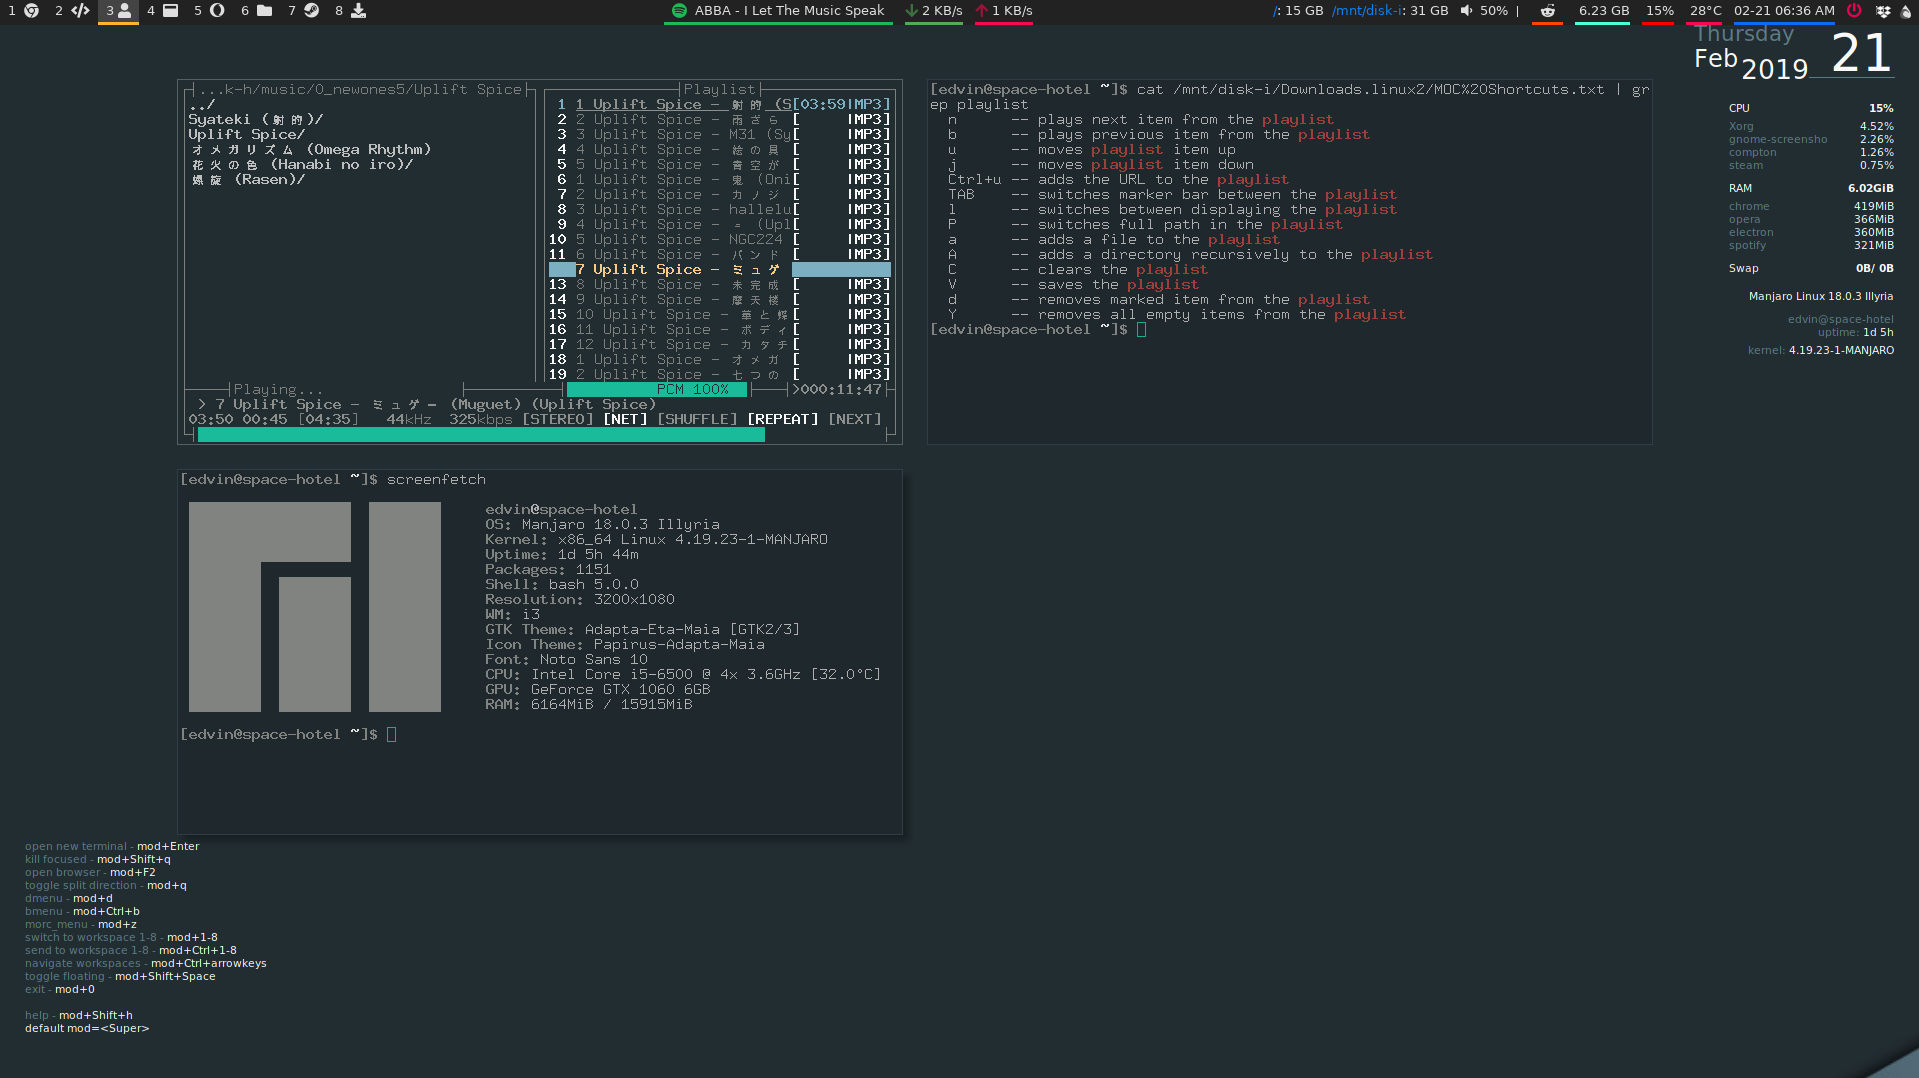
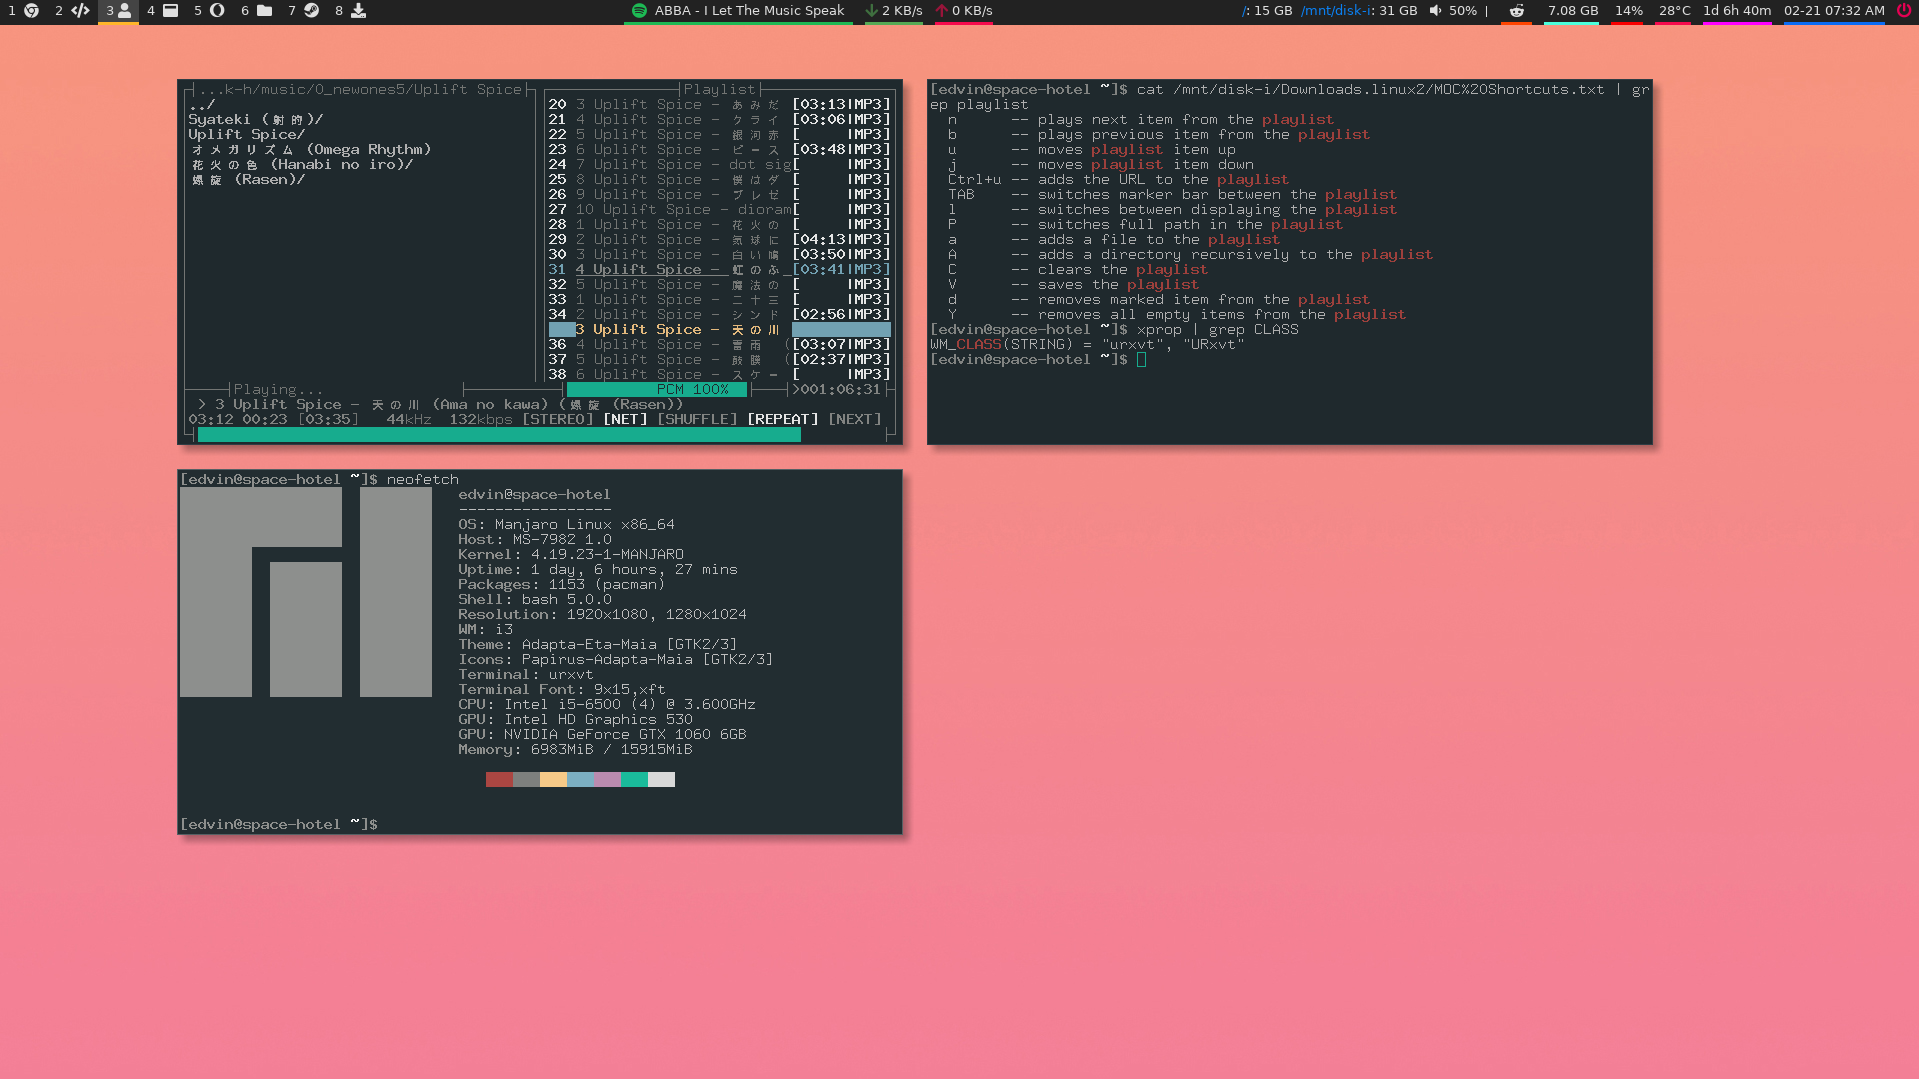
Update screenshot

diff --git a/README.md b/README.md
@@ -2,6 +2,6 @@
 
 ![](https://raw.githubusercontent.com/kittenparry/dot-files/master/extras/screenshot.png)
 
-Currently not much modified apart from the `polybar` to some extend.
-
-Over all still learning ricing, Linux and Arch of course.
+* Currently not much modified apart from the `polybar` to some extend.
+* Over all still learning ricing, Linux and Arch.
+* Wallpaper source: [thread](http://boards.4chan.org/wg/thread/7353356#p7353627), [direct](http://i.4cdn.org/wg/1548692218015.jpg), [mirror](https://i.imgur.com/slgGXG4.jpg).
